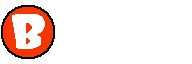
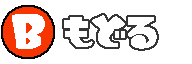
メニューボタン関数更新

Changed region(s): [[0.3125, 0.1875, 0.8438, 0.8125]]

diff --git a/HewProject/HewProject/CMenu.cpp b/HewProject/HewProject/CMenu.cpp
@@ -324,7 +324,7 @@ void CMenu::Update()
 
 			if (input->GetInputTrigger(InputType::DECIDE))
 			{
-				selectControl->PushButton();
+				selectControl->PushButton(true);
 			}
 
 			if (input->GetInputTrigger(InputType::CANCEL))
@@ -579,4 +579,9 @@ void CMenu::Draw()
 bool CMenu::GetisMenu()
 {
 	return isMenu;
+}
+
+void CMenu::SetFunc(std::function<void()> _onComplete)
+{
+	Message[0]->SetFunc(_onComplete);
 }

diff --git a/HewProject/HewProject/CMenu.h b/HewProject/HewProject/CMenu.h
@@ -81,5 +81,7 @@ public:
     void Draw() override;
 
     bool GetisMenu();
+
+    void SetFunc(std::function<void()> _onComplete);
 };
 
